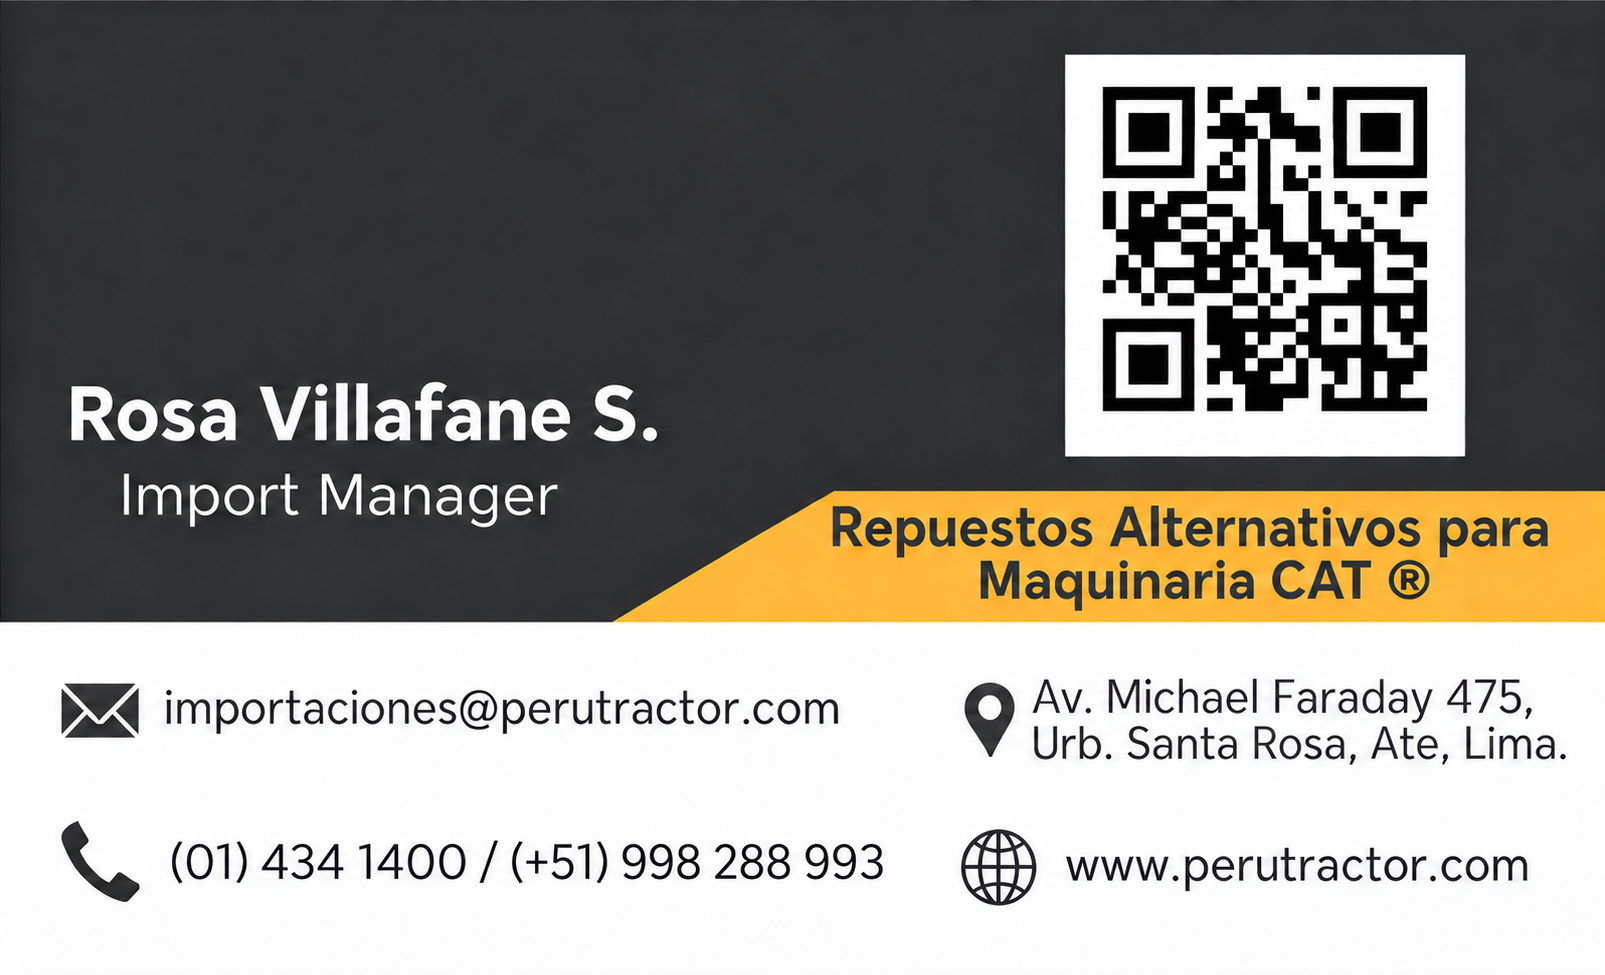
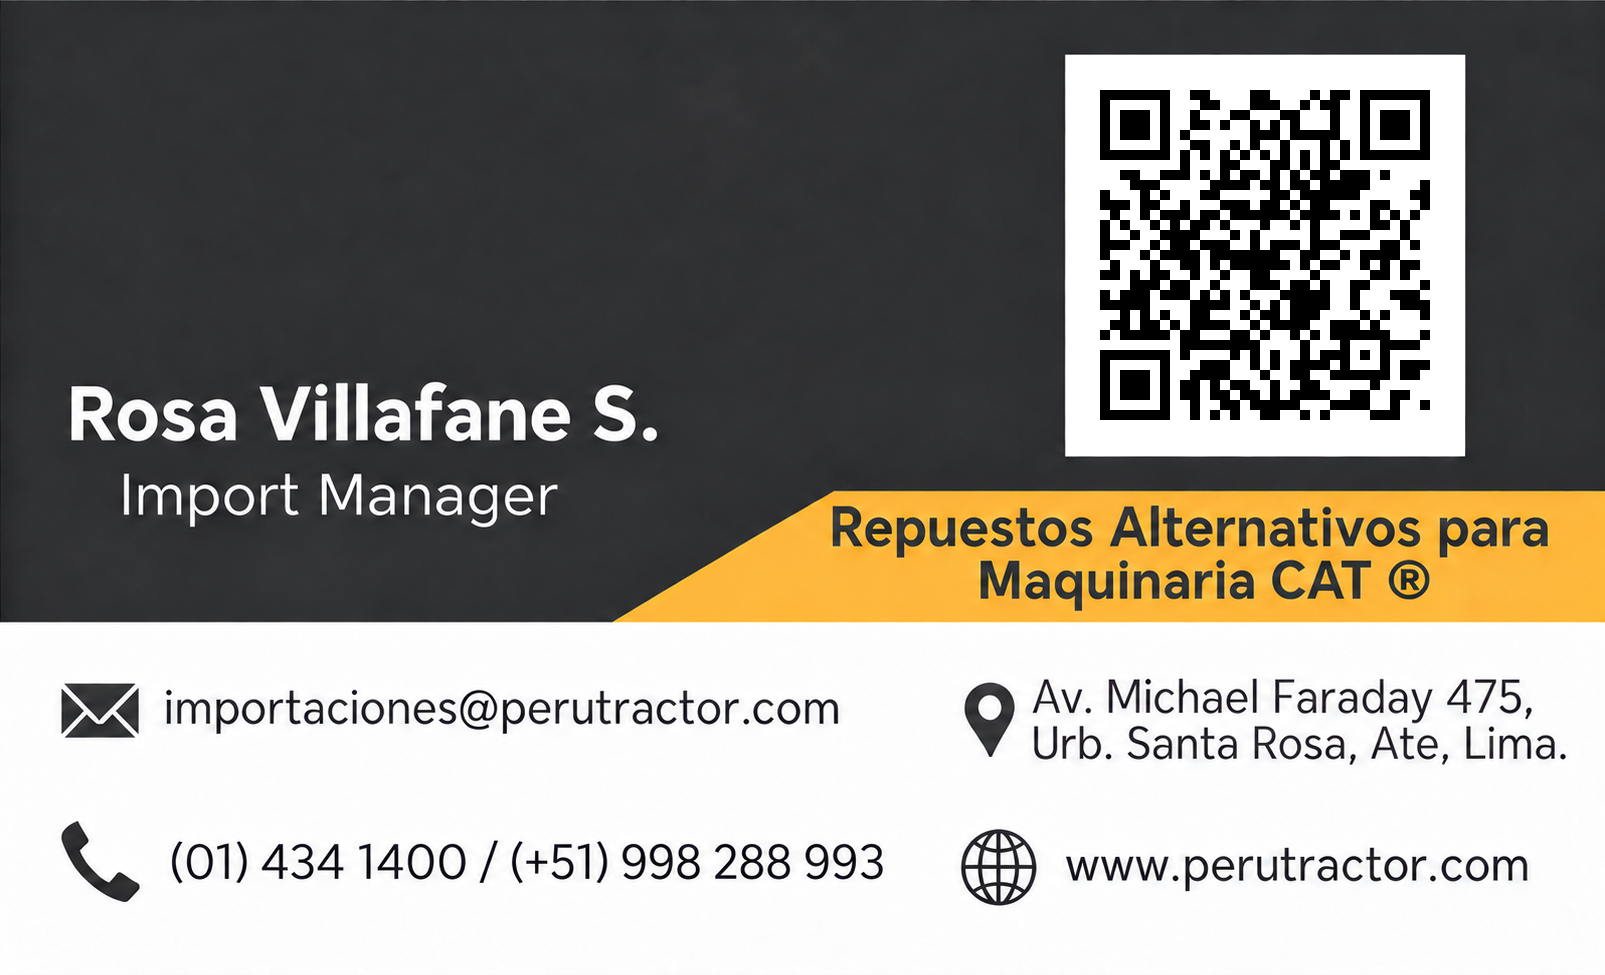
El QR del anverso abre WhatsApp y se añade la acción en la página
- QR regenerado hacia https://wa.me/51998288993 con corrección de errores
  nivel H, montado en la misma placa blanca y al mismo tamaño que el anterior
  (antes apuntaba a https://perutractor.com/)
- Verificado decodificándolo sobre la tarjeta final a 1605, 660 y 390 px de
  ancho, y también sobre la imagen social regenerada
- Botón "Escribir por WhatsApp" a lo ancho bajo el CTA principal, con la
  marca reconocible por el icono sin romper la paleta ámbar/carbón
- Cuarta acción en la barra móvil: Guardar · WhatsApp · Correo · Llamar,
  comprobada a 320 px sin texto recortado ni objetivos bajo 44 px
- La fila de teléfonos pasa a plural y el texto alternativo del anverso
  indica que el QR abre WhatsApp
- JSON-LD declara el enlace de WhatsApp en sameAs

Claude-Session: https://claude.ai/code/session_01Y7dWXq4PJk9m51L4swwyd9

Changed region(s): [[0.6854, 0.0615, 0.9034, 0.4308]]

diff --git a/index.html b/index.html
@@ -199,6 +199,9 @@
     box-shadow:0 18px 38px -14px rgba(245,179,53,.95);
   }
   .btn.ok{background:linear-gradient(150deg,#7bd88f,#4fae67);color:#10231a;border-color:transparent}
+  .btn.wa{border-color:rgba(93,213,128,.45);background:rgba(93,213,128,.09)}
+  .btn.wa svg{color:#5dd580;width:20px;height:20px}
+  .btn.wa:hover{border-color:rgba(93,213,128,.75);background:rgba(93,213,128,.16)}
   .secundarias{display:grid;grid-template-columns:1fr 1fr;gap:10px}
   .secundarias .btn{font-size:14px;padding:14px 12px;gap:8px;text-align:center}
   .secundarias .btn svg{width:18px}
@@ -317,7 +320,7 @@
   /* ================= Barra de acciones móvil ================= */
   .barra{
     position:fixed;left:0;right:0;bottom:0;z-index:30;
-    display:none;grid-template-columns:repeat(3,1fr);gap:8px;
+    display:none;grid-template-columns:repeat(4,1fr);gap:6px;
     padding:10px max(12px,env(safe-area-inset-left)) calc(10px + env(safe-area-inset-bottom)) max(12px,env(safe-area-inset-right));
     background:rgba(25,28,31,.86);backdrop-filter:blur(14px);-webkit-backdrop-filter:blur(14px);
     border-top:1px solid var(--line);
@@ -332,6 +335,7 @@
   }
   .barra svg{width:18px;height:18px}
   .barra .destacado{background:linear-gradient(150deg,var(--amber),var(--amber-deep));color:var(--ink)}
+  .barra #bWa svg{color:#5dd580}
 
   /* ================= Entrada escalonada ================= */
   .entra{animation:sube 620ms cubic-bezier(.22,.75,.2,1) both}
@@ -443,6 +447,10 @@
             <svg viewBox="0 0 24 24" fill="none" stroke="currentColor" stroke-width="2" stroke-linecap="round" stroke-linejoin="round" aria-hidden="true"><path d="M12 3v12"/><path d="m7 11 5 5 5-5"/><path d="M4 20h16"/></svg>
             <span id="vcardTexto">Guardar contacto</span>
           </a>
+          <a class="btn wa" id="aWa" href="#" target="_blank" rel="noopener noreferrer">
+            <svg viewBox="0 0 24 24" fill="currentColor" aria-hidden="true"><path d="M20.52 3.45A11.86 11.86 0 0 0 12.05 0C5.46 0 .1 5.33.1 11.89c0 2.1.55 4.14 1.6 5.95L0 24l6.34-1.65a11.9 11.9 0 0 0 5.7 1.45h.01c6.59 0 11.95-5.34 11.95-11.9 0-3.18-1.24-6.17-3.49-8.41ZM12.05 21.8h-.01a9.9 9.9 0 0 1-5.03-1.38l-.36-.21-3.74.98 1-3.65-.24-.38a9.86 9.86 0 0 1-1.51-5.27c0-5.45 4.46-9.89 9.94-9.89 2.65 0 5.14 1.03 7.02 2.9a9.83 9.83 0 0 1 2.9 7A9.93 9.93 0 0 1 12.05 21.8Zm5.42-7.42c-.3-.15-1.76-.87-2.03-.97-.27-.1-.47-.15-.67.15-.2.3-.77.97-.97 1.17-.2.2-.4.22-.69.07-.3-.15-1.26-.46-2.39-1.47-.88-.79-1.48-1.76-1.65-2.06-.18-.3-.02-.46.13-.61.13-.13.35-.35.52-.52.17-.17.23-.29.35-.48.11-.2.05-.37-.02-.52-.07-.15-.6-1.47-.83-2.01-.22-.54-.44-.46-.6-.46h-.54c-.19 0-.45.05-.68.3-.23.24-.86.84-.86 2.05 0 1.2.88 2.37 1 2.54.13.16 1.75 2.66 4.24 3.73.59.25 1.05.4 1.41.52.6.19 1.14.16 1.56.1.48-.08 1.46-.6 1.66-1.17.21-.58.21-1.07.15-1.17-.07-.1-.23-.17-.53-.32Z"/></svg>
+            <span>Escribir por WhatsApp<span class="sr">, se abre en una pestaña nueva</span></span>
+          </a>
           <div class="secundarias">
             <a class="btn" id="aCorreo" href="#">
               <svg viewBox="0 0 24 24" fill="none" stroke="currentColor" stroke-width="2" stroke-linecap="round" stroke-linejoin="round" aria-hidden="true"><rect x="2.5" y="4.5" width="19" height="15" rx="2"/><path d="m3 6.5 9 6 9-6"/></svg>
@@ -471,7 +479,7 @@
             <picture>
               <source srcset="assets/tarjeta-frente.webp" type="image/webp">
               <img src="assets/tarjeta-frente.png" width="1605" height="975" fetchpriority="high" decoding="async"
-                   alt="Anverso de la tarjeta: Rosa Villafane S., Import Manager. Repuestos alternativos para maquinaria CAT. Correo importaciones@perutractor.com, teléfonos (01) 434 1400 y +51 998 288 993, Av. Michael Faraday 475, Urb. Santa Rosa, Ate, Lima, www.perutractor.com.">
+                   alt="Anverso de la tarjeta, con un código QR que abre WhatsApp: Rosa Villafane S., Import Manager. Repuestos alternativos para maquinaria CAT. Correo importaciones@perutractor.com, teléfonos (01) 434 1400 y +51 998 288 993, Av. Michael Faraday 475, Urb. Santa Rosa, Ate, Lima, www.perutractor.com.">
             </picture>
             <span class="brillo"></span>
           </span>
@@ -505,7 +513,7 @@
           <div class="dato estatico">
             <span class="icono" aria-hidden="true"><svg viewBox="0 0 24 24" fill="none" stroke="currentColor" stroke-width="2" stroke-linecap="round" stroke-linejoin="round"><path d="M22 16.9v3a2 2 0 0 1-2.2 2 19.8 19.8 0 0 1-8.6-3.1 19.5 19.5 0 0 1-6-6A19.8 19.8 0 0 1 2.1 4.2 2 2 0 0 1 4.1 2h3a2 2 0 0 1 2 1.7c.1 1 .4 1.9.7 2.8a2 2 0 0 1-.5 2.1L8.1 9.9a16 16 0 0 0 6 6l1.3-1.2a2 2 0 0 1 2.1-.5c.9.3 1.8.6 2.8.7a2 2 0 0 1 1.7 2Z"/></svg></span>
             <span class="cuerpo">
-              <span class="clave">Teléfono</span>
+              <span class="clave">Teléfonos</span>
               <span class="valor numeros">
                 <a id="dTel" href="#" data-campo="telefono">(01) 434 1400</a>
                 <span class="barra-sep" aria-hidden="true">/</span>
@@ -549,6 +557,10 @@
     <svg viewBox="0 0 24 24" fill="none" stroke="currentColor" stroke-width="2" stroke-linecap="round" stroke-linejoin="round" aria-hidden="true"><path d="M12 3v12"/><path d="m7 11 5 5 5-5"/><path d="M4 20h16"/></svg>
     Guardar
   </button>
+  <a id="bWa" href="#" target="_blank" rel="noopener noreferrer">
+    <svg viewBox="0 0 24 24" fill="currentColor" aria-hidden="true"><path d="M20.52 3.45A11.86 11.86 0 0 0 12.05 0C5.46 0 .1 5.33.1 11.89c0 2.1.55 4.14 1.6 5.95L0 24l6.34-1.65a11.9 11.9 0 0 0 5.7 1.45h.01c6.59 0 11.95-5.34 11.95-11.9 0-3.18-1.24-6.17-3.49-8.41ZM12.05 21.8h-.01a9.9 9.9 0 0 1-5.03-1.38l-.36-.21-3.74.98 1-3.65-.24-.38a9.86 9.86 0 0 1-1.51-5.27c0-5.45 4.46-9.89 9.94-9.89 2.65 0 5.14 1.03 7.02 2.9a9.83 9.83 0 0 1 2.9 7A9.93 9.93 0 0 1 12.05 21.8Zm5.42-7.42c-.3-.15-1.76-.87-2.03-.97-.27-.1-.47-.15-.67.15-.2.3-.77.97-.97 1.17-.2.2-.4.22-.69.07-.3-.15-1.26-.46-2.39-1.47-.88-.79-1.48-1.76-1.65-2.06-.18-.3-.02-.46.13-.61.13-.13.35-.35.52-.52.17-.17.23-.29.35-.48.11-.2.05-.37-.02-.52-.07-.15-.6-1.47-.83-2.01-.22-.54-.44-.46-.6-.46h-.54c-.19 0-.45.05-.68.3-.23.24-.86.84-.86 2.05 0 1.2.88 2.37 1 2.54.13.16 1.75 2.66 4.24 3.73.59.25 1.05.4 1.41.52.6.19 1.14.16 1.56.1.48-.08 1.46-.6 1.66-1.17.21-.58.21-1.07.15-1.17-.07-.1-.23-.17-.53-.32Z"/></svg>
+    WhatsApp
+  </a>
   <a id="bCorreo" href="#">
     <svg viewBox="0 0 24 24" fill="none" stroke="currentColor" stroke-width="2" stroke-linecap="round" stroke-linejoin="round" aria-hidden="true"><rect x="2.5" y="4.5" width="19" height="15" rx="2"/><path d="m3 6.5 9 6 9-6"/></svg>
     Correo
@@ -580,6 +592,7 @@
     telefonoE164:'+5114341400',
     movil:     '+51 998 288 993',
     movilE164: '+51998288993',
+    whatsapp:  'https://wa.me/51998288993',   // el QR del anverso apunta aqui
     web:       'https://www.perutractor.com',
     webVisible:'www.perutractor.com',
     direccion: 'Av. Michael Faraday 475, Urb. Santa Rosa, Ate, Lima',
@@ -610,7 +623,8 @@
    ['aTel',enlaceTel],['bTel',enlaceTel],
    ['dTel',enlaceFijo],['dMovil',enlaceTel],
    ['aMapa',mapa],['dMapa',mapa],
-   ['aWeb',PERFIL.web],['dWeb',PERFIL.web]].forEach(function(par){
+   ['aWeb',PERFIL.web],['dWeb',PERFIL.web],
+   ['aWa',PERFIL.whatsapp],['bWa',PERFIL.whatsapp]].forEach(function(par){
     var el = $(par[0]); if (el) el.href = par[1];
   });
 
@@ -738,6 +752,7 @@
       address:{'@type':'PostalAddress',streetAddress:PERFIL.calle,addressLocality:PERFIL.ciudad,
                addressRegion:PERFIL.region,addressCountry:PERFIL.paisISO}
     },
+    sameAs: [PERFIL.whatsapp],
     worksFor:{
       '@type':'Organization',
       name: PERFIL.empresa,

diff --git a/README.md b/README.md
@@ -22,6 +22,7 @@ var PERFIL = {
   telefonoE164:'+5114341400',
   movil:  '+51 998 288 993',      // celular: es el que marca "Llamar"
   movilE164:'+51998288993',
+  whatsapp:'https://wa.me/51998288993',
   web:    'https://www.perutractor.com',
   direccion:'Av. Michael Faraday 475, Urb. Santa Rosa, Ate, Lima'
 }
@@ -54,6 +55,12 @@ las dos imágenes de la tarjeta.
   para el fijo y `TEL;TYPE=CELL,VOICE` para el celular) y confirmación visual.
 - **Teléfonos** — la ficha muestra fijo y celular, cada uno marcable por separado.
   Los botones "Llamar" (hero y barra móvil) marcan el **celular**.
+- **WhatsApp** — botón propio y entrada en la barra móvil, hacia
+  `https://wa.me/51998288993`.
+- **Código QR del anverso** — regenerado para abrir ese mismo WhatsApp.
+  Antes apuntaba a `https://perutractor.com/`. Se generó con corrección de
+  errores nivel H y se verificó decodificándolo sobre la tarjeta final a
+  1605 px, 660 px y 390 px de ancho.
 - **Barra inferior móvil** — Guardar · Correo · Llamar, con `backdrop-filter`,
   respeta el safe-area del iPhone y se retira al llegar al pie.
 - **Fondo** — CSS: degradado radial, rejilla técnica, rayado diagonal y glow ámbar;
@@ -73,7 +80,6 @@ objetivo táctil por debajo de 44 px.
   `https://rosavillafane.vercel.app/`. Si el dominio real es otro, hay que
   sustituirlo (son cuatro líneas en el `<head>`), o la previsualización de
   WhatsApp y LinkedIn no cargará la imagen.
-- **WhatsApp**: el celular +51 998 288 993 ya está en la página, pero no se añadió
-  botón de WhatsApp porque nadie ha confirmado que ese número lo tenga. Con una
-  confirmación se agrega como acción.
-- **Destino del QR** del anverso: conviene escanearlo y confirmar a dónde lleva.
+- **Tarjetas ya impresas**: las que estén impresas llevan el QR anterior, que
+  apunta a `perutractor.com`. El cambio afecta solo a la imagen digital; para
+  que el QR de WhatsApp llegue al papel hay que reimprimir.
